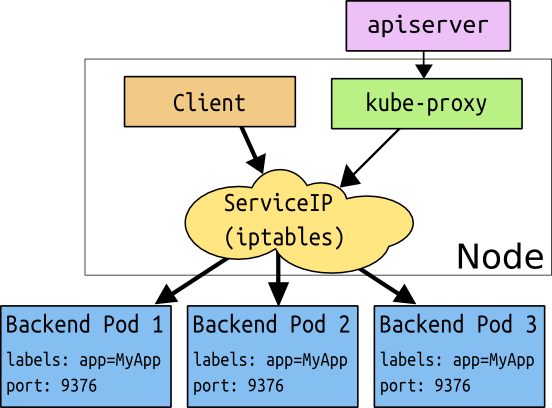
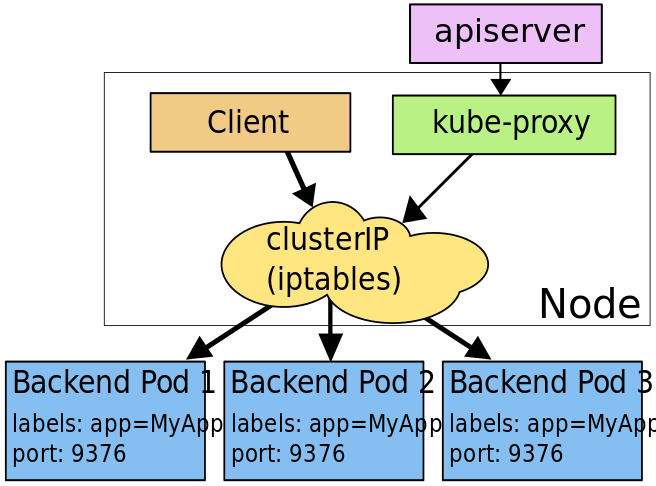
Show clusterIP in Services diagrams instead of ServiceIP (#10663)
* Use clusterIP instead of ServiceIP in graphs and documentation

Using ServiceIP instead of clusterIP in images can be confusing when
they're showing the clusterIP.

Since the SVGs are updated, the "Note" is now redundant.

* Update out-dated service diagram PNGs

diff --git a/content/en/docs/concepts/services-networking/service.md b/content/en/docs/concepts/services-networking/service.md
@@ -173,8 +173,6 @@ By default, the choice of backend is round robin.
 
 ![Services overview diagram for userspace proxy](/images/docs/services-userspace-overview.svg)
 
-Note that in the above diagram, `clusterIP` is shown as `ServiceIP`.
-
 ### Proxy-mode: iptables
 
 In this mode, kube-proxy watches the Kubernetes master for the addition and
@@ -191,8 +189,6 @@ userspace proxier, the iptables proxier cannot automatically retry another
 having working [readiness probes](/docs/tasks/configure-pod-container/configure-liveness-readiness-probes/#defining-readiness-probes).
 
 ![Services overview diagram for iptables proxy](/images/docs/services-iptables-overview.svg)
-
-Note that in the above diagram, `clusterIP` is shown as `ServiceIP`.
 
 ### Proxy-mode: ipvs
 
